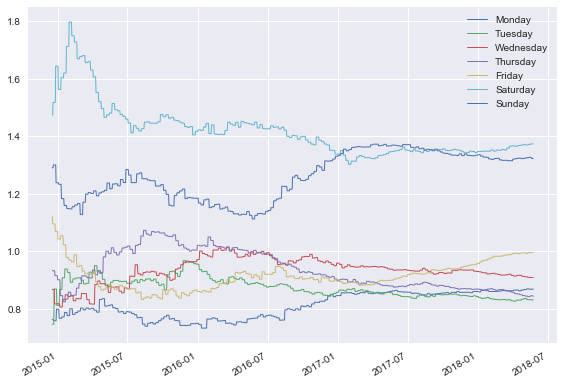
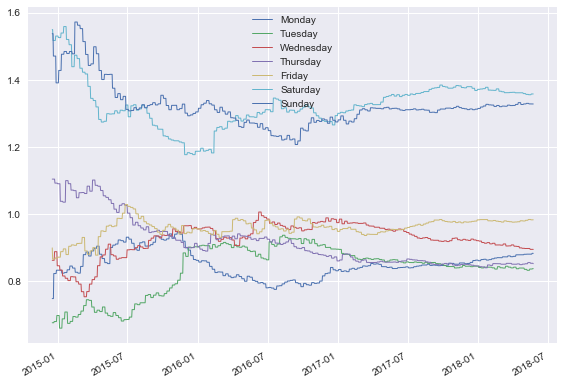
small change to sales forecasting post

diff --git a/_posts/2019-10-24-pybats_example.md b/_posts/2019-10-24-pybats_example.md
@@ -84,33 +84,33 @@ data.head()
   <tbody>
     <tr>
       <td>2014-06-01</td>
-      <td>16.0</td>
-      <td>0.10</td>
+      <td>15.0</td>
+      <td>1.11</td>
       <td>0.0</td>
     </tr>
     <tr>
       <td>2014-06-02</td>
-      <td>6.0</td>
-      <td>-0.12</td>
-      <td>1.0</td>
-    </tr>
-    <tr>
-      <td>2014-06-03</td>
-      <td>11.0</td>
-      <td>0.06</td>
-      <td>1.0</td>
-    </tr>
-    <tr>
-      <td>2014-06-04</td>
-      <td>11.0</td>
-      <td>0.09</td>
+      <td>13.0</td>
+      <td>2.19</td>
       <td>0.0</td>
     </tr>
     <tr>
-      <td>2014-06-05</td>
-      <td>18.0</td>
-      <td>0.09</td>
+      <td>2014-06-03</td>
+      <td>6.0</td>
+      <td>0.23</td>
+      <td>0.0</td>
+    </tr>
+    <tr>
+      <td>2014-06-04</td>
+      <td>2.0</td>
+      <td>-0.05</td>
       <td>1.0</td>
+    </tr>
+    <tr>
+      <td>2014-06-05</td>
+      <td>6.0</td>
+      <td>-0.14</td>
+      <td>0.0</td>
     </tr>
   </tbody>
 </table>
@@ -120,7 +120,7 @@ data.head()
 
 The simulated dataset contains daily sales of an item from June 1, 2014 to June 1, 2018. 
 
-- The Price column represents percent change in price from the moving average. So it's centered at 0, and will react when a sale occurs. 
+- The Price column represents percent change in price from the moving average, so it's centered at 0.
 - Promotion is a 0-1 indicator for a specific sale or promotion on the item.
 
 ### Run the analysis
